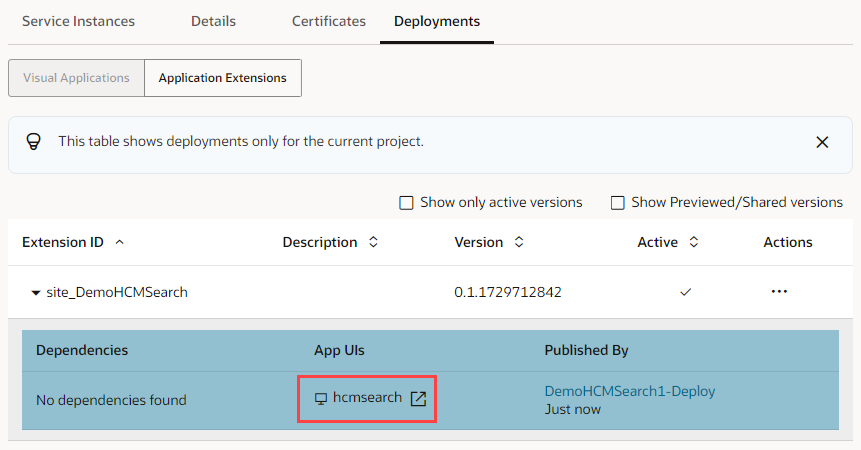
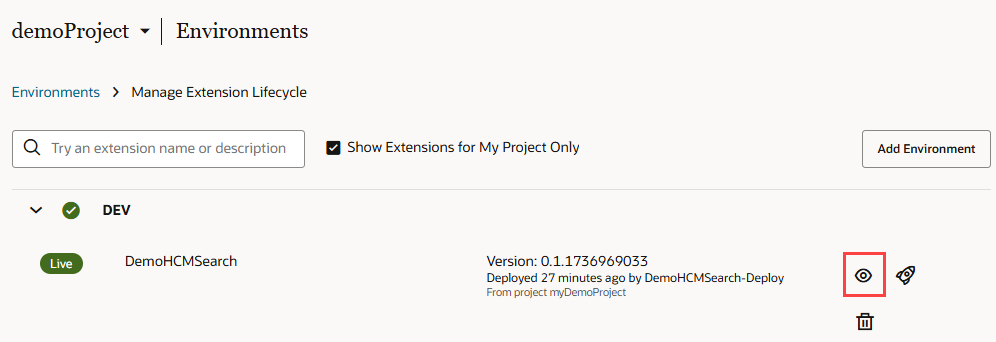
25.04

diff --git a/visual-builder/studio/extend-apps/publish/publish.md b/visual-builder/studio/extend-apps/publish/publish.md
@@ -65,9 +65,13 @@ Once your changes are successfully merged to your project's repo, VB Studio auto
 
 3. When the status of both jobs in the Jobs tab is green, click the ![Environments icon](images/icon-environments.png) **Environments** tab to open your project's Environments page and click **Extension Lifecycle**.
 
-4. Expand the environment to which the **DemoHCMSearch** extension was deployed, click ![View Details icon](images/manageextensionlifecycle-details-icon.png) to view details, then ![Open icon](images/icon-openappui.png) next to the **hcmsearch** App UI to open it in a new browser tab:
+4. Expand the environment to which the DemoHCMSearch extension was deployed, then click ![Extension Details icon](images/manageextensionlifecycle-details-icon.png) to view extension details.
 
     ![This image shows the Environments tab. The Development environment is selected and the Deployments tab is shown. In the Applications Extensions section, DemoHCMSearch is highlighted and expanded and hcmsearch is highlighted in the App UIs column.](images/deployment.png)
+
+5. Click ![Open icon](images/icon-openappui.png) next to **hcmsearch** to open the App UI in a new browser tab:
+
+    ![This image shows the Extension Details pane with details such as extension name, ID, version, App UIs, Dependencies, and Version History. The hcmsearch App UI is highlighted.](images/deployment-appui.png)
 
     You can now view the App UI deployed to your environment's Oracle Cloud Applications instance.
 
